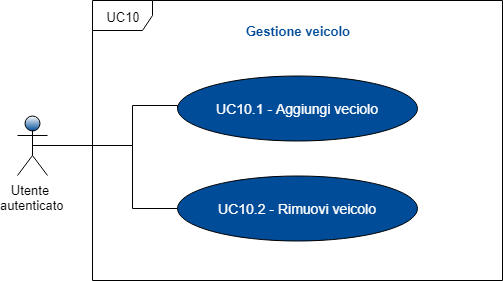
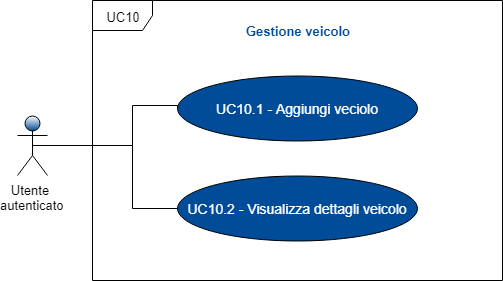
fix analisi dei requisiti manca parte requisiti funzionali e prestazionali

Changed region(s): [[0.3579, 0.7117, 0.8052, 0.7687]]

diff --git a/RR/Esterni/Analisi_dei_requisiti/res/sections/UC/UC10-Gestione-veicoli.tex b/RR/Esterni/Analisi_dei_requisiti/res/sections/UC/UC10-Gestione-veicoli.tex
@@ -6,17 +6,15 @@
  \end{figure}
  \begin{itemize}
  	\item \textbf{Attori Primari}: utente autenticato;
- 	\item \textbf{Descrizione}: l'utente visualizza i propri veicoli. Per ogni veicolo vengono visualizzate le seguenti informazioni:
+ 	\item \textbf{Descrizione}: l'utente ha una panoramica dei veicolo che ha inserito visualizzando solo poche cose riguardanti il mezzo e ha la possibilità di:
  	\begin{itemize}
- 		\item marca;
- 		\item modello;
- 		\item anno di immatricolazione;
- 		\item rating.
+ 		\item aggiungere un veicolo [UC10.1];
+ 		\item visualizzare i dettagli del veicolo [UC10.2].
  	\end{itemize}
  	\item \textbf{Precondizione}: l'utente accede al fragment\glosp per la gestione dei veicoli;
  	\item \textbf{Postcondizione}: l'utente visualizza le informazioni relative ai propri veicoli, con le eventuali operazioni disponibili su ognuno di essi.
  \end{itemize}
- \subsubsection{UC10.1 - Aggiunta veicolo}
+ \subsubsection{UC10.1 - Aggiungi veicolo}
  \begin{itemize}
  	\item \textbf{Attori Primari}: utente autenticato;
  	\item \textbf{Descrizione}: l'utente può aggiungere un mezzo di trasporto al proprio parco macchine;
@@ -26,14 +24,14 @@
  		\item inserimento modello veicolo [UC10.1.2];
  		\item inserimento anno d'immatricolazione veicolo [UC10.1.3].
  	\end{itemize}
- 	e successivamente salverà il nuovo veicolo [UC10.1.4];
+ 	e successivamente salverà il nuovo veicolo confermando i campi appena inseriti;
  	\item \textbf{Precondizione}: l'utente ha inserito correttamente tutti i campi necessari;
  	\item \textbf{Postcondizione}: il nuovo veicolo viene aggiunto ai veicoli posseduti.
  \end{itemize}
 \begin{figure}[H]
 	\includegraphics[width=10cm]{res/images/UC10-1Aggiungiveicolo.png}
 	\centering
-	\caption{UC10.1 - Aggiunta veicolo}
+	\caption{UC10.1 - Aggiungi veicolo}
 \end{figure}
 \subsubsection{UC10.1.1 - Inserimento marca veicolo}
 \begin{itemize}
@@ -62,20 +60,36 @@
 	\item \textbf{Postcondizione}: l'utente ha compilato il campo con l'anno d'immatricolazione.	
 \end{itemize}
 
-\subsubsection{UC10.1.4 - Invio dati veicolo}
+%\subsubsection{UC10.1.4 - Invio dati veicolo}
+%\begin{itemize}
+%	\item \textbf{Attori Primari}: utente autenticato;
+%	\item \textbf{Descrizione}: l'utente preme il pulsante per la conferma e l'invio dei dati del veicolo;
+%	\item \textbf{Scenario principale}: l'utente preme il pulsante di verifica ed invio dei dati;	
+%	\item \textbf{Precondizione}: i campi dati necessari per l'inserimento di un veicolo sono compilabili. È presente il pulsante per la conferma dei dati;
+%	\item \textbf{Postcondizione}: il nuovo veicolo viene inserito e l'utente potrà visualizzarlo nel proprio parco macchine.
+%\end{itemize}
+\subsubsection{UC10.2 - Visualizza dettagli veicolo}
 \begin{itemize}
 	\item \textbf{Attori Primari}: utente autenticato;
-	\item \textbf{Descrizione}: l'utente preme il pulsante per la conferma e l'invio dei dati del veicolo;
-	\item \textbf{Scenario principale}: l'utente preme il pulsante di verifica ed invio dei dati;	
-	\item \textbf{Precondizione}: i campi dati necessari per l'inserimento di un veicolo sono compilabili. È presente il pulsante per la conferma dei dati;
-	\item \textbf{Postcondizione}: il nuovo veicolo viene inserito e l'utente potrà visualizzarlo nel proprio parco macchine.
+	\item \textbf{Descrizione}: l'utente autenticato, per ogni veicolo, può visualizzare in dettaglio le seguenti informazioni:
+	\begin{itemize}
+		\item marca;
+		\item modello;
+		\item anno di immatricolazione;
+		\item rating.
+	\end{itemize}
+	E ha la possibilità di rimuoverlo [UC10.2.1];
 \end{itemize}
-
-\subsubsection{UC10.2 - Rimozione veicolo}
+\begin{figure}[H]
+	\includegraphics[width=10cm]{res/images/UC10-2Dettagliveicolo.png}
+	\centering
+	\caption{UC10.2 - Visualizza dettagli veicolo}
+\end{figure}
+\subsubsection{UC10.2.1 - Rimuovi veicolo}
 \begin{itemize}
 	\item \textbf{Attori Primari}: utente autenticato;
 	\item \textbf{Descrizione}: l'utente può rimuovere un mezzo di trasporto dal proprio parco macchine;
-	\item \textbf{Scenario principale}: l'utente può selezionare un veicolo e attraverso l'apposito pulsante rimuoverlo dal proprio parco macchine.
+	\item \textbf{Scenario principale}: l'utente, dopo aver selezionato il veicolo da visualizzare, può rimuoverlo dal proprio parco macchine attraverso l'apposito pulsante;
 	\item \textbf{Precondizione}: l'applicazione mostra all'utente i propri veicoli e ne permette la selezione.
 	\item \textbf{Postcondizione}: il veicolo selezionato viene rimosso dal parco macchine
 \end{itemize}

diff --git a/RR/Esterni/Analisi_dei_requisiti/res/sections/UC/UC11-Gestione-prenotazione.tex b/RR/Esterni/Analisi_dei_requisiti/res/sections/UC/UC11-Gestione-prenotazione.tex
@@ -1,3 +1,4 @@
+\newpage
 \subsubsection{UC11 - Gestione prenotazioni}
 \begin{figure}[h]
 	\includegraphics[width=12cm]{res/images/UC11Prenotazione.png}
@@ -77,6 +78,7 @@
 		\item luogo d'incontro [UC11.3.1];
 		\item orario d'incontro [UC11.3.2].
 	\end{itemize} 
+	successivamente conferma i dati e invia la risposta all'usufruente;
 	\item \textbf{Precondizione}: l'utente visualizza correttamente la prenotazione che intende confermare o annullare;
 	\item \textbf{Post-condizione}: l'utente ha confermato o annullato correttamente la richiesta di prenotazione ricevuta.
 \end{itemize}
@@ -104,24 +106,24 @@
 	\item \textbf{Postcondizione}: l'utente ha compilato il campo con l'orario d'incontro.	
 \end{itemize}
 
-\subsubsection{UC11.3.3 - Invio dati}
-\begin{itemize}
-	\item \textbf{Attori Primari}: proprietario del veicolo;
-	\item \textbf{Descrizione}: l'utente preme il pulsante per la conferma e l'invio dei dati;
-	\item \textbf{Scenario principale}: l'utente preme il pulsante di verifica ed invio dei dati;	
-	\item \textbf{Precondizione}: l'utente ha compilato i dati necessari per la conferma della prenotazione e preme il pulsante per l'invio dei dati;
-	\item \textbf{Postcondizione}: la prenotazione viene confermata.
-\end{itemize}
+%\subsubsection{UC11.3.3 - Invio dati}
+%\begin{itemize}
+%	\item \textbf{Attori Primari}: proprietario del veicolo;
+%	\item \textbf{Descrizione}: l'utente preme il pulsante per la conferma e l'invio dei dati;
+%	\item \textbf{Scenario principale}: l'utente preme il pulsante di verifica ed invio dei dati;	
+%	\item \textbf{Precondizione}: l'utente ha compilato i dati necessari per la conferma della prenotazione e preme il pulsante per l'invio dei dati;
+%	\item \textbf{Postcondizione}: la prenotazione viene confermata.
+%\end{itemize}
 
 \subsubsection{UC11.4 - Riconsegna del veicolo, lato usufruente}
 \begin{itemize}
 	\item \textbf{Attori Primari}: usufruente del veicolo;
 	\item \textbf{Descrizione}: l'utente riconsegna il veicolo e chiude la prenotazione;
 	\item \textbf{Scenario principale}: l'utente si trova all'interno della pagina di visualizzazione dei dettagli della prenotazione precedentemente selezionata. Dopo aver riconsegnato il veicolo e le chiavi, attraverso l'apposito pulsante l'utente chiederà la chiusura della prenotazione (la prenotazione verrà definitivamente chiusa quando anche il proprietario del veicolo confermerà la riconsegna delle chiavi e del mezzo [UC11.5]). Comparirà un pop-up che permetterà di lasciare una recensione all'altro utente [UC11.6];
-	\item \textbf{Inclusioni}: 
-	\begin{itemize}
-		\item recensione utente [UC11.6].
-	\end{itemize}
+%	\item \textbf{Inclusioni}: 
+%	\begin{itemize}
+%		\item recensione utente [UC11.6].
+%	\end{itemize}
 	\item \textbf{Precondizione}: l'utente visualizza correttamente la prenotazione che intende concludere;
 	\item \textbf{Post-condizione}: l'utente ha richiesto correttamente la chiusura della prenotazione selezionata.
 	
@@ -132,10 +134,10 @@
 	\item \textbf{Attori Primari}: proprietario del veicolo;
 	\item \textbf{Descrizione}: il proprietario del veicolo conferma la riconsegna del mezzo e delle chiavi;
 	\item \textbf{Scenario principale}: l'utente si trova all'interno della pagina di visualizzazione dei dettagli della prenotazione precedentemente selezionata. Alla riconsegna del veicolo e delle chiavi, attraverso l'apposito pulsante l'utente confermerà la chiusura della prenotazione in modo definitivo. Comparirà un pop-up che permetterà di lasciare una recensione all'altro utente [UC11.6];
-	\item \textbf{Inclusioni}: 
-	\begin{itemize}
-		\item recensione utente [UC11.6].
-	\end{itemize}
+%	\item \textbf{Inclusioni}: 
+%	\begin{itemize}
+%		\item recensione utente [UC11.6].
+%	\end{itemize}
 	\item \textbf{Precondizione}: l'utente visualizza correttamente la prenotazione che intende concludere;
 	\item \textbf{Post-condizione}: l'utente ha concluso correttamente la prenotazione selezionata.
 \end{itemize}

diff --git a/RR/Esterni/Analisi_dei_requisiti/res/sections/UC/UC1-5-GuidaRegistrazione.tex b/RR/Esterni/Analisi_dei_requisiti/res/sections/UC/UC1-5-GuidaRegistrazione.tex
@@ -6,15 +6,16 @@
 \subsubsection{UC1 - Registrazione}
 \begin{itemize}
 	\item \textbf{Attori Primari}: utente non autenticato;
-	\item \textbf{Descrizione}: per effettuare il procedimento di registrazione, l'utente deve compilare tutti i campi necessari ovvero nome, cognome, email e password;
+	\item \textbf{Descrizione}: per effettuare il procedimento di registrazione, l'utente deve compilare tutti i campi necessari ovvero nome, cognome, email, password e, se in possesso, anche del codice amico confermando i dati una volta inseriti per proseguire;
 	\item \textbf{Scenario principale}: l'applicazione rende disponibili i campi da compilare per la registrazione. Dunque l'utente dovrà inserire tutti i dati necessari, quali:
 		\begin{itemize}
 			\item inserimento nome [UC1.1.1];
 			\item inserimento cognome [UC1.1.2];
 			\item inserimento indirizzo email [UC1.1.3];
 			\item inserimento password [UC1.1.4];
-			\item inserimento codice amico [UC1.1.5].
+			\item inserimento codice amico (solo se in possesso) [UC1.1.5].
 		\end{itemize}
+	Infine confermare i dati per procedere;
 	\item \textbf{Precondizione}: l'applicazione rende disponibile i campi da compilare;
 	\item \textbf{Postcondizione}: l'utente viene registrato nell'applicazione;
 	\item \textbf{Inclusioni}:
@@ -41,13 +42,14 @@
 \subsubsection{UC1.1 - Inserimento dati profilo utente}
 \begin{itemize}
 	\item \textbf{Attori Primari}: utente non autenticato;
-	\item \textbf{Descrizione}:l'utente compila i campi contenenti i dati relativi al profilo utente;
+	\item \textbf{Descrizione}: l'utente compila i campi contenenti i dati relativi al profilo utente;
 	\item \textbf{Scenario principale}: l'utente compila tutti i campi del form riguardanti l'account, ovvero:
 		\begin{itemize}
 			\item l'utente inserisce il proprio nome [UC1.1.1];
 			\item l'utente inserisce il proprio cognome [UC1.1.2];
 			\item l'utente inserisce l'email da associare all'account [UC1.1.3];
-			\item l'utente inserisce la password da associare all'account [UC1.1.4].
+			\item l'utente inserisce la password da associare all'account [UC1.1.4];
+			\item l'utente inserisce, solo se in possesso, il codice amico [UC1.1.5].
 		\end{itemize}
 	\item \textbf{Precondizione}: l'utente è entrato nell'activity\glosp di registrazione;
 	\item \textbf{Postcondizione}: l'utente ha compilato tutti i campi richiesti dalla registrazione.

diff --git a/RR/Esterni/Analisi_dei_requisiti/res/sections/UC/UC18-19-Milestone-unlock.tex b/RR/Esterni/Analisi_dei_requisiti/res/sections/UC/UC18-19-Milestone-unlock.tex
@@ -1,7 +1,7 @@
 \begin{figure}[h]
-	\includegraphics[width=11cm]{res/images/uc20-21.png}
+	\includegraphics[width=9cm]{res/images/uc20-21.png}
 	\centering
-	\caption{Schema generale: milestone unlock}
+	\caption{UC18 - Milestone unlock}
 \end{figure}
 \subsubsection{UC18 - Milestone Unlock}
 \begin{itemize}
@@ -16,17 +16,22 @@
 	\end{itemize}
 	I premi partono dal quinto livello esperienza.
 	Ogni 10 livelli esperienza, il valore del premio è aumentato del 10\%;
-	\item \textbf{Estensioni}:
-	\begin{itemize}
-		\item ritiro premio per raggiungimento nuovo livello esperienza [UC19].
-	\end{itemize}
+%	\item \textbf{Estensioni}:
+%	\begin{itemize}
+%		\item ritiro premio per raggiungimento nuovo livello esperienza [UC19].
+%	\end{itemize}
 	\item \textbf{Precondizione}: l'utente autenticato ha premuto il pulsante della Milestone Unlock, dal menu dell'applicazione;
 	\item \textbf{Postcondizione}: l'utente autenticato sta visualizzando la tabella Milestone Unlock;
 \end{itemize}
 \subsubsection{UC19 - Ritiro premio per raggiungimento nuovo livello esperienza}
+\begin{figure}[h]
+	\includegraphics[width=9cm]{res/images/uc19.png}
+	\centering
+	\caption{UC19 - Ritiro premio per raggiungimento nuovo livello esperienza}
+\end{figure}
 \begin{itemize}
 	\item \textbf{Attori Primari}: utente autenticato;
-	\item \textbf{Descrizione}: l'utente autenticato ha raggiunto un nuovo livello esperienza presente nella tabella Milestone Unlock\glosp e può ritirare il relativo premio;	
+	\item \textbf{Descrizione}: l'utente autenticato ha raggiunto un nuovo livello esperienza presente nella tabella Milestone Unlock\glosp e può ritirare il relativo premio che può consistere in accessori per eventuale avatar o macchina da personalizzare, oppure sconti su spesa o e-commerce;	
 	\item \textbf{Scenario principale}: l'utente autenticato ha raggiunto un nuovo livello esperienza e gli si presenta la tabella di Milestone Unlock, dalla quale può ritirare il corrispondente premio. Il premio appena sbloccato sarà illuminato da un'aura gialla;
 	\item \textbf{Precondizione}: l'utente autenticato ha raggiunto un nuovo livello esperienza, superiore al 5;
 	\item \textbf{Postcondizione}: l'utente autenticato può ritirare il premio corrispondete al livello raggiunto, tramite la tabella Milestone Unlock.

diff --git a/RR/Esterni/Analisi_dei_requisiti/res/sections/UC/UC20-21-LuckySpin.tex b/RR/Esterni/Analisi_dei_requisiti/res/sections/UC/UC20-21-LuckySpin.tex
@@ -1,12 +1,12 @@
 \begin{figure}[h]
 	\includegraphics[width=13cm]{res/images/UC20Luckyspin.png}
 	\centering
-	\caption{Schema generale: lucky spin}
+	\caption{UC20 - Lucky spin}
 \end{figure}
 \subsubsection{UC20 - Lucky Spin}
 \begin{itemize}
 	\item \textbf{Attori Primari}: utente autenticato;
-	\item \textbf{Descrizione}:	l'utente può visualizzare la lista dei premi ottenibili tramite la Lucky Spin\glo. Se l'utente ha concluso una prenotazione, può usare la Lucky Spin per ottenere un premio;
+	\item \textbf{Descrizione}:	l'utente può visualizzare la lista dei premi ottenibili tramite la Lucky Spin\glo. Se l'utente ha concluso una prenotazione, può usare la Lucky Spin per ottenere un premio che che può consistere in accessori per eventuale avatar o macchina da personalizzare, oppure sconti su spesa o e-commerce;
 	\item \textbf{Scenario principale}: l'utente preme il pulsante \textit{Lucky Spin} dalla sua area personale. Nel caso in cui l'utente ha concluso una prenotazione, può usare la Lucky Spin per ottenere un premio. I premi ottenibili sono del seguente tipo:
 	\begin{itemize}
 		\item prestito di un veicolo gratuitamente;
@@ -22,7 +22,7 @@
 \subsubsection{UC21 - Vincita premio Lucky Spin}
 \begin{itemize}
 	\item \textbf{Attori Primari}: utente autenticato;
-	\item \textbf{Descrizione}: l'utente ha concluso una prenotazione e può usare la Lucky Spin\glosp per ottenere un premio;	
+	\item \textbf{Descrizione}: l'utente ha concluso una prenotazione e può usare la Lucky Spin\glosp per ottenere un premio che può consistere in accessori per eventuale avatar o macchina da personalizzare, oppure sconti su spesa o e-commerce;	
 	\item \textbf{Scenario principale}: l'utente visualizza la schermata della Lucky Spin, nella quale può premere il pulsante \textit{Gira} per usare i suoi giri disponibili. Il premio gli verrà mostrato tramite un pop-up che metterà in risalto il premio vinto;
 	\item \textbf{Precondizione}: l'utente autenticato ha concluso almeno una prenotazione e ha usato la Lucky Spin;
 	\item \textbf{Postcondizione}: l'utente autenticato ha vinto e ritirato il premio dalla Lucky Spin.

diff --git a/RR/Esterni/Analisi_dei_requisiti/res/sections/Requisiti/requisiti_prestazionali.tex b/RR/Esterni/Analisi_dei_requisiti/res/sections/Requisiti/requisiti_prestazionali.tex
@@ -1,25 +1,25 @@
 \subsection{Requisiti prestazionali}
 
-\rowcolors{2}{pari}{dispari}
-
-\begin{longtable}{ >{\centering}p{0.10\textwidth} >{\centering}p{0.25\textwidth}
-		>{\raggedright}p{0.35\textwidth} >{\centering}p{0.14\textwidth}}
-	\caption{Tabella dei requisiti prestazionali}\\
-	\rowcolorhead 
-	\textbf{\color{white}Requisito} 
-	& \textbf{\color{white}Classificazione} 
-	& \centering\textbf{\color{white}Descrizione}
-	& \textbf{\color{white}Fonti} 
-	\endfirsthead
-	\rowcolor{white}\caption[]{(continua)}\\
-	\rowcolorhead 
-	\textbf{\color{white}Requisito} 
-	& \textbf{\color{white}Classificazione} 
-	& \centering\textbf{\color{white}Descrizione}
-	& \textbf{\color{white}Fonti} 
-	\endhead	
-	
-	
-	RPO1	&	Obbligatorio	&	L'applicazione deve essere fluida, con tempi di caricamento inferiori ai 5-10 secondi	&	VE\_2.5	\tabularnewline
-
-\end{longtable}
+%\rowcolors{2}{pari}{dispari}
+%
+%\begin{longtable}{ >{\centering}p{0.10\textwidth} >{\centering}p{0.25\textwidth}
+%		>{\raggedright}p{0.35\textwidth} >{\centering}p{0.14\textwidth}}
+%	\caption{Tabella dei requisiti prestazionali}\\
+%	\rowcolorhead 
+%	\textbf{\color{white}Requisito} 
+%	& \textbf{\color{white}Classificazione} 
+%	& \centering\textbf{\color{white}Descrizione}
+%	& \textbf{\color{white}Fonti} 
+%	\endfirsthead
+%	\rowcolor{white}\caption[]{(continua)}\\
+%	\rowcolorhead 
+%	\textbf{\color{white}Requisito} 
+%	& \textbf{\color{white}Classificazione} 
+%	& \centering\textbf{\color{white}Descrizione}
+%	& \textbf{\color{white}Fonti} 
+%	\endhead	
+%	
+%	
+%
+%\end{longtable}
+bisogna scriverci qualcosa per dire che non abbiamo i requisiti prestazionali

diff --git a/RR/Esterni/Analisi_dei_requisiti/res/sections/UC/UC6-9-LoginLogout.tex b/RR/Esterni/Analisi_dei_requisiti/res/sections/UC/UC6-9-LoginLogout.tex
@@ -27,14 +27,15 @@
 \subsubsection{UC6.1 - Compilazione campi per il login}
 \begin{itemize}
 	\item \textbf{Attori Primari}: utente non autenticato;
-	\item \textbf{Descrizione}: l'utente compila i campi richiesti per l'autenticazione;
+	\item \textbf{Descrizione}: l'utente compila i campi richiesti per l'autenticazione e dopo aver confermato, se i dati sono validi, verrà portato alla pagina \textit{Gestione veicoli};
 	\item \textbf{Scenario principale}: l'utente compila i campi necessari all'autenticazione ovvero:
 		\begin{itemize}
 			\item l'utente inserisce l'email associata al proprio account [UC5.1.1];
 			\item l'utente inserisce la password associata la proprio account [UC5.1.2].
-		\end{itemize}	
+		\end{itemize}
+	successivamente conferma i dati;	
 	\item \textbf{Precondizione}: l'utente si trova nell'activity\glosp di autenticazione;
-	\item \textbf{Postcondizione}: l'utente ha compilato tutti i campi necessari all'autenticazione.	
+	\item \textbf{Postcondizione}: l'utente ha compilato tutti i campi necessari all'autenticazione, se corretti, viene mandato alla pagina \textit{Gestione veicoli}.	
 \end{itemize}
 \begin{figure}[h]
 	\includegraphics[width=11cm]{res/images/UC6-1Compilazione.png}
@@ -93,12 +94,12 @@
 			\item visualizzazione errore email non valida [UC2].
 		\end{itemize}
 \end{itemize}
+\subsubsection{UC9 - Logout}
 \begin{figure}[h]
 	\includegraphics[width=9cm]{res/images/UC9Logout.png}
 	\centering
 	\caption{UC9 - Logout}
 \end{figure}
-\subsubsection{UC9 - Logout}
 \begin{itemize}
 	\item \textbf{Attori Primari}:
 	utente autenticato;

diff --git a/RR/Esterni/Analisi_dei_requisiti/res/sections/Requisiti/requisiti_di_vincolo.tex b/RR/Esterni/Analisi_dei_requisiti/res/sections/Requisiti/requisiti_di_vincolo.tex
@@ -21,10 +21,10 @@
 		
 		
 RVO1	&	Obbligatorio	&	L'applicazione deve essere sviluppata per Android\glosp 9, Versione API\glo: 28	&	VE\_2.5	\tabularnewline
-RVD2	&	Desiderabile	&	L'applicazione deve essere scritta in Kotlin\glo	&	VE\_1.1	\tabularnewline
-RVO3	&	Obbligatorio	&	Il prodotto deve essere pubblicato e versionato in una repository\glosp di Github\glo.	&	Capitolato
+RVD2	&	Desiderabile	&	L'applicazione deve essere scritta in Kotlin\glo	&	VE\_1.1	
+%RVO3	&	Obbligatorio	&	Il prodotto deve essere pubblicato e versionato in una repository\glosp di Github\glo.	&	Capitolato
 \tabularnewline
-RVO4	&	Obbligatorio	&	Setup di una continuos integration\glosp per verificare che ogni release\glosp soddisfi i requisiti nuovi senza regressioni. 	&	Capitolato	\tabularnewline
-RVD5	&	Desiderabile	&	Utilizzo della piattaforma Movens\glosp per il servizio di back-end\glo.	&	Capitolato	\tabularnewline
-RVO6	&	Obbligatorio	&	Presenza di almeno cinque core-drive\glosp del framework\glosp di Octalisys\glosp per la gamification\glo.	&	Capitolato	\tabularnewline
+RVO3	&	Obbligatorio	&	Setup di una continuos integration\glosp per verificare che ogni release\glosp soddisfi i requisiti nuovi senza regressioni. 	&	Capitolato	\tabularnewline
+RVD4	&	Desiderabile	&	Utilizzo della piattaforma Movens\glosp per il servizio di back-end\glo.	&	Capitolato	\tabularnewline
+RVO5	&	Obbligatorio	&	Presenza di almeno cinque core-drive\glosp del framework\glosp di Octalisys\glosp per la gamification\glo.	&	Capitolato	\tabularnewline
 	\end{longtable}

diff --git a/RR/Esterni/Analisi_dei_requisiti/res/sections/UC/UC22-Leaderboard.tex b/RR/Esterni/Analisi_dei_requisiti/res/sections/UC/UC22-Leaderboard.tex
@@ -1,14 +1,15 @@
+\newpage
+\subsubsection{UC22 - Leaderboard}
 \begin{figure}[h]
 	\includegraphics[width=9cm]{res/images/UC22Leaderboard.png}
 	\centering
-	\caption{Schema generale: leaderboard}
+	\caption{UC22 - Leaderboard}
 \end{figure}
-\subsubsection{UC22 - Leaderboard}
 \begin{itemize}
 	\item \textbf{Attori Primari}: utente autenticato;
-	\item \textbf{Descrizione}: dall'interno della sua area personale, l'utente può visualizzare la classifica dei migliori utenti;
+	\item \textbf{Descrizione}: dall'interno della sua area personale, l'utente può visualizzare la classifica dei migliori utenti dove, al termine di un periodo prestabilito, chi si trova nelle prime 3 posizioni potrà ricevere un premio che può consistere in accessori per eventuale avatar o macchina da personalizzare, oppure sconti su spesa o e-commerce o ancora un viaggio gratis con \textit{GaiaGo};
 	\item \textbf{Scenario principale}: l'utente apre la sezione \textit{Gestione Profilo} [UC14] e consulta la classifica utenti;
-	\item \textbf{Precondizione}: l'applicazione rende disponibile la visualizzazione della Leaderboard\glosp;
+	\item \textbf{Precondizione}: l'applicazione rende disponibile la visualizzazione della Leaderboard\glo;
 	\item \textbf{Postcondizione}: l'utente autenticato ha visualizzato la leaderboard.
 \end{itemize}
 

diff --git a/RR/Esterni/Analisi_dei_requisiti/res/sections/Requisiti/requisiti_funzionali.tex b/RR/Esterni/Analisi_dei_requisiti/res/sections/Requisiti/requisiti_funzionali.tex
@@ -47,7 +47,7 @@
 	RFO6.5	&	Obbligatorio	&	L'utente può filtrare i veicoli secondo la data e la fascia oraria desiderata	&  UC12.1 \\ UC12.2	\tabularnewline
 	RFO6.6	&	Obbligatorio	&	L'utente può selezionare un veicolo tra quelli filtrati e prenotarlo	&	Capitolato\\ UC12.7	\tabularnewline
 	RFD7	&	Desiderabile	&	L'utente può recuperare la propria password	&	Interno\\ UC8	\tabularnewline
-	RFD7.1	&	Desiderabile	&	Il recupero della password richiede la mail associata all'account	&	Interno	\tabularnewline
+	RFD7.1	&	Desiderabile	&	Il recupero della password richiede la mail associata all'account	&	Interno\\ UC8	\tabularnewline
 	RFO8	&	Obbligatorio	&	L'utente può gestire le prenotazioni	&	Capitolato \\ UC11.1	\tabularnewline
 	RFO8.1	&	Obbligatorio	&	L'utente può visualizzare le prenotazioni che ha effettuato e quelle che gli altri utenti hanno fatto sui suoi veicoli	&	Capitolato \\ UC11	\tabularnewline
 	RFO8.2	&	Obbligatorio	&	L'utente può cancellare una prenotazione.	&	Capitolato \\ UC11.2	\tabularnewline

diff --git a/RR/Esterni/Analisi_dei_requisiti/res/sections/UC/UC16-17-ProgressBar.tex b/RR/Esterni/Analisi_dei_requisiti/res/sections/UC/UC16-17-ProgressBar.tex
@@ -6,7 +6,7 @@
 \subsubsection{UC16 - Progress Bar}
 \begin{itemize}
 	\item \textbf{Attori Primari}: utente autenticato;
-	\item \textbf{Descrizione}: l'utente che non ha ancora inserito tutti i suoi dati nel profilo visualizzerà una barra di avanzamento che si riempirà progressivamente in base ai dati inseriti. Ad ogni progressione ci sarà un'incremento dei punti totali;
+	\item \textbf{Descrizione}: l'utente che non ha ancora inserito tutti i suoi dati nel profilo visualizzerà una barra di avanzamento che si riempirà progressivamente in base ai dati inseriti. Ad ogni progressione ci sarà un'incremento dei punti totali che potranno essere usati all'interno dell'applicazione;
 	\item \textbf{Scenario principale}: l'utente apre la sezione \textit{Gestione Profilo} [UC14] e non ha ancora inserito tutti i dati possibili;
 	\item \textbf{Estensioni}:
 	\begin{itemize}

diff --git a/RR/Esterni/Analisi_dei_requisiti/res/sections/UC/UC23-CodiceAmico.tex b/RR/Esterni/Analisi_dei_requisiti/res/sections/UC/UC23-CodiceAmico.tex
@@ -1,9 +1,10 @@
+\newpage
+\subsubsection{UC23 - Codice invita amici}
 \begin{figure}[h]
 	\includegraphics[width=9cm]{res/images/UC23Codiceamico.png}
 	\centering
-	\caption{Schema generale: codice invita amici}
+	\caption{UC23 - Codice invita amici}
 \end{figure}
-\subsubsection{UC23 - Codice invita amici}
 \begin{itemize}
 	\item \textbf{Attori Primari}: utente autenticato;
 	\item \textbf{Descrizione}: agli utenti autenticati è reso disponibile un codice personale alfanumerico che può essere inviato ad un amico, non ancora registrato, per invitarlo ad usufruire dell'applicazione semplicemente inserendo questo "codice amico" in fase di registrazione nell'apposito spazio facendo guadagnare così punti bonus al proprietario del codice;
